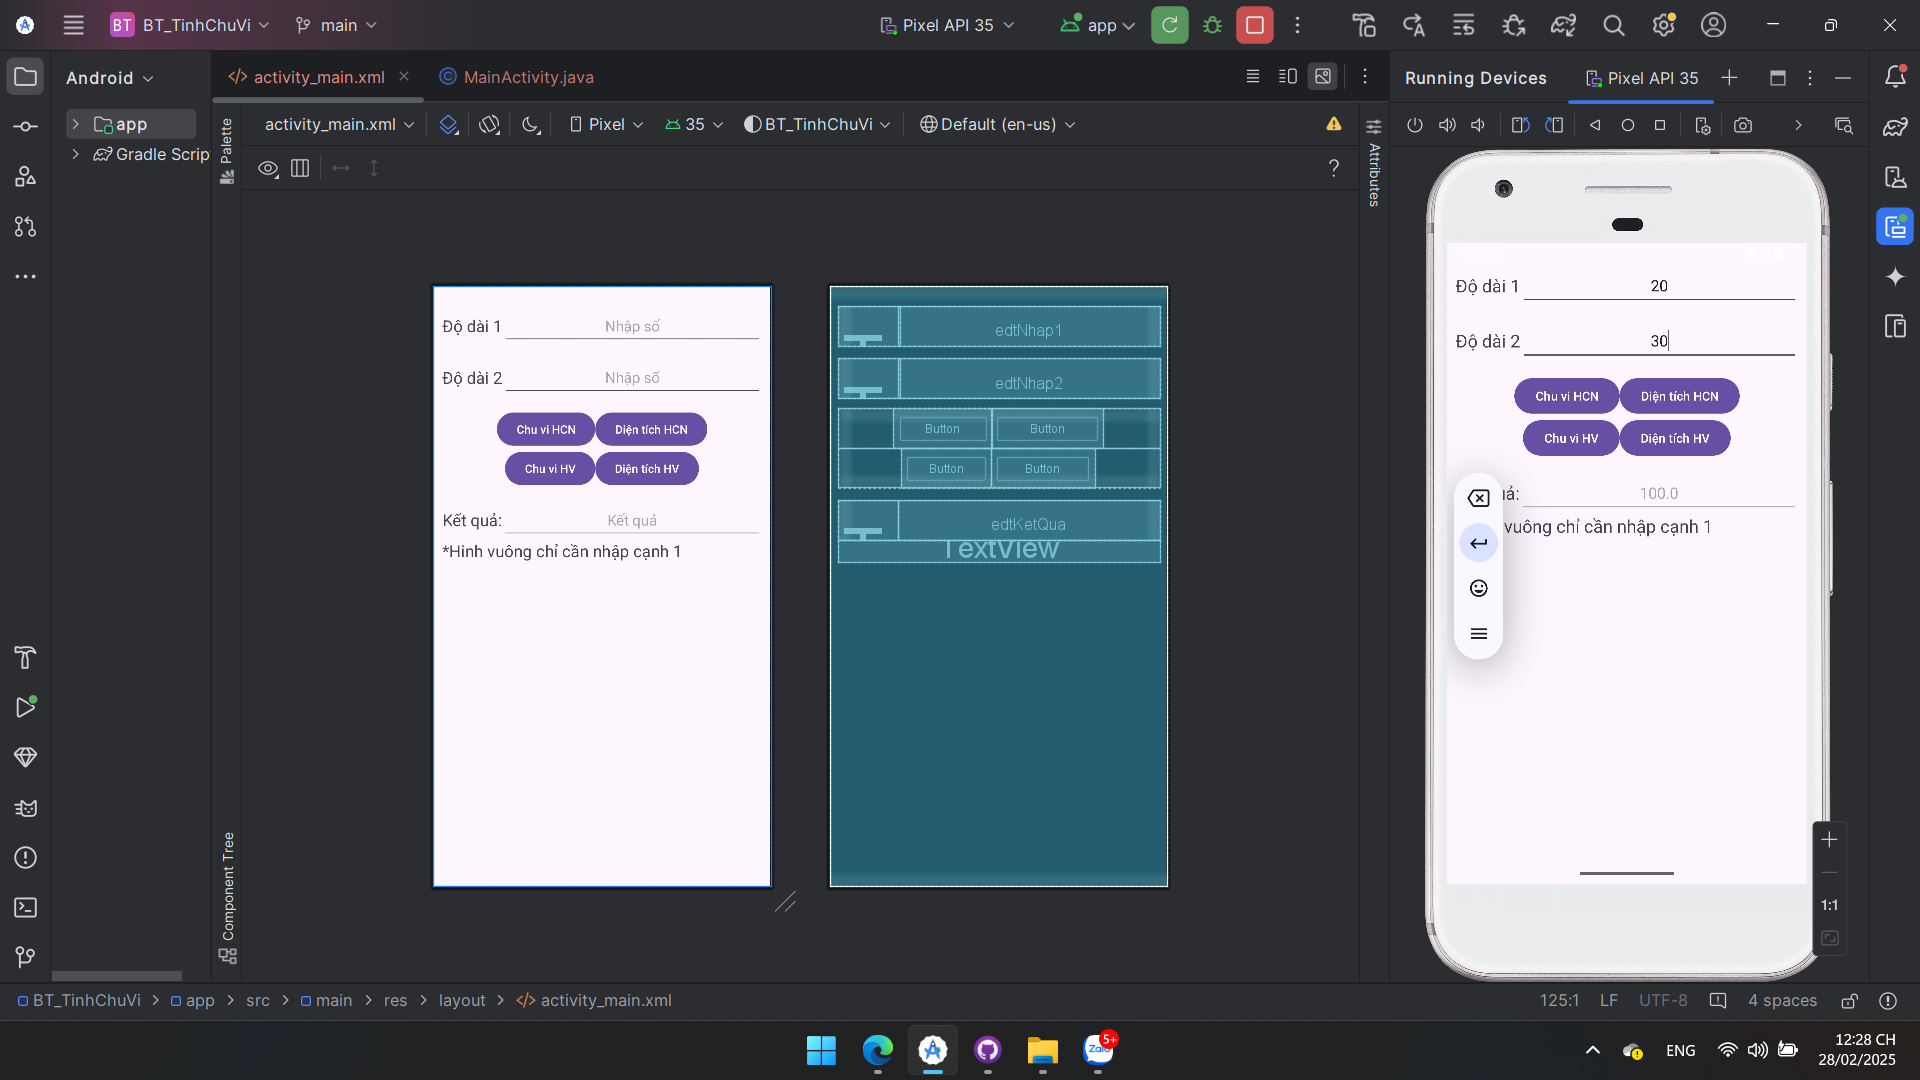
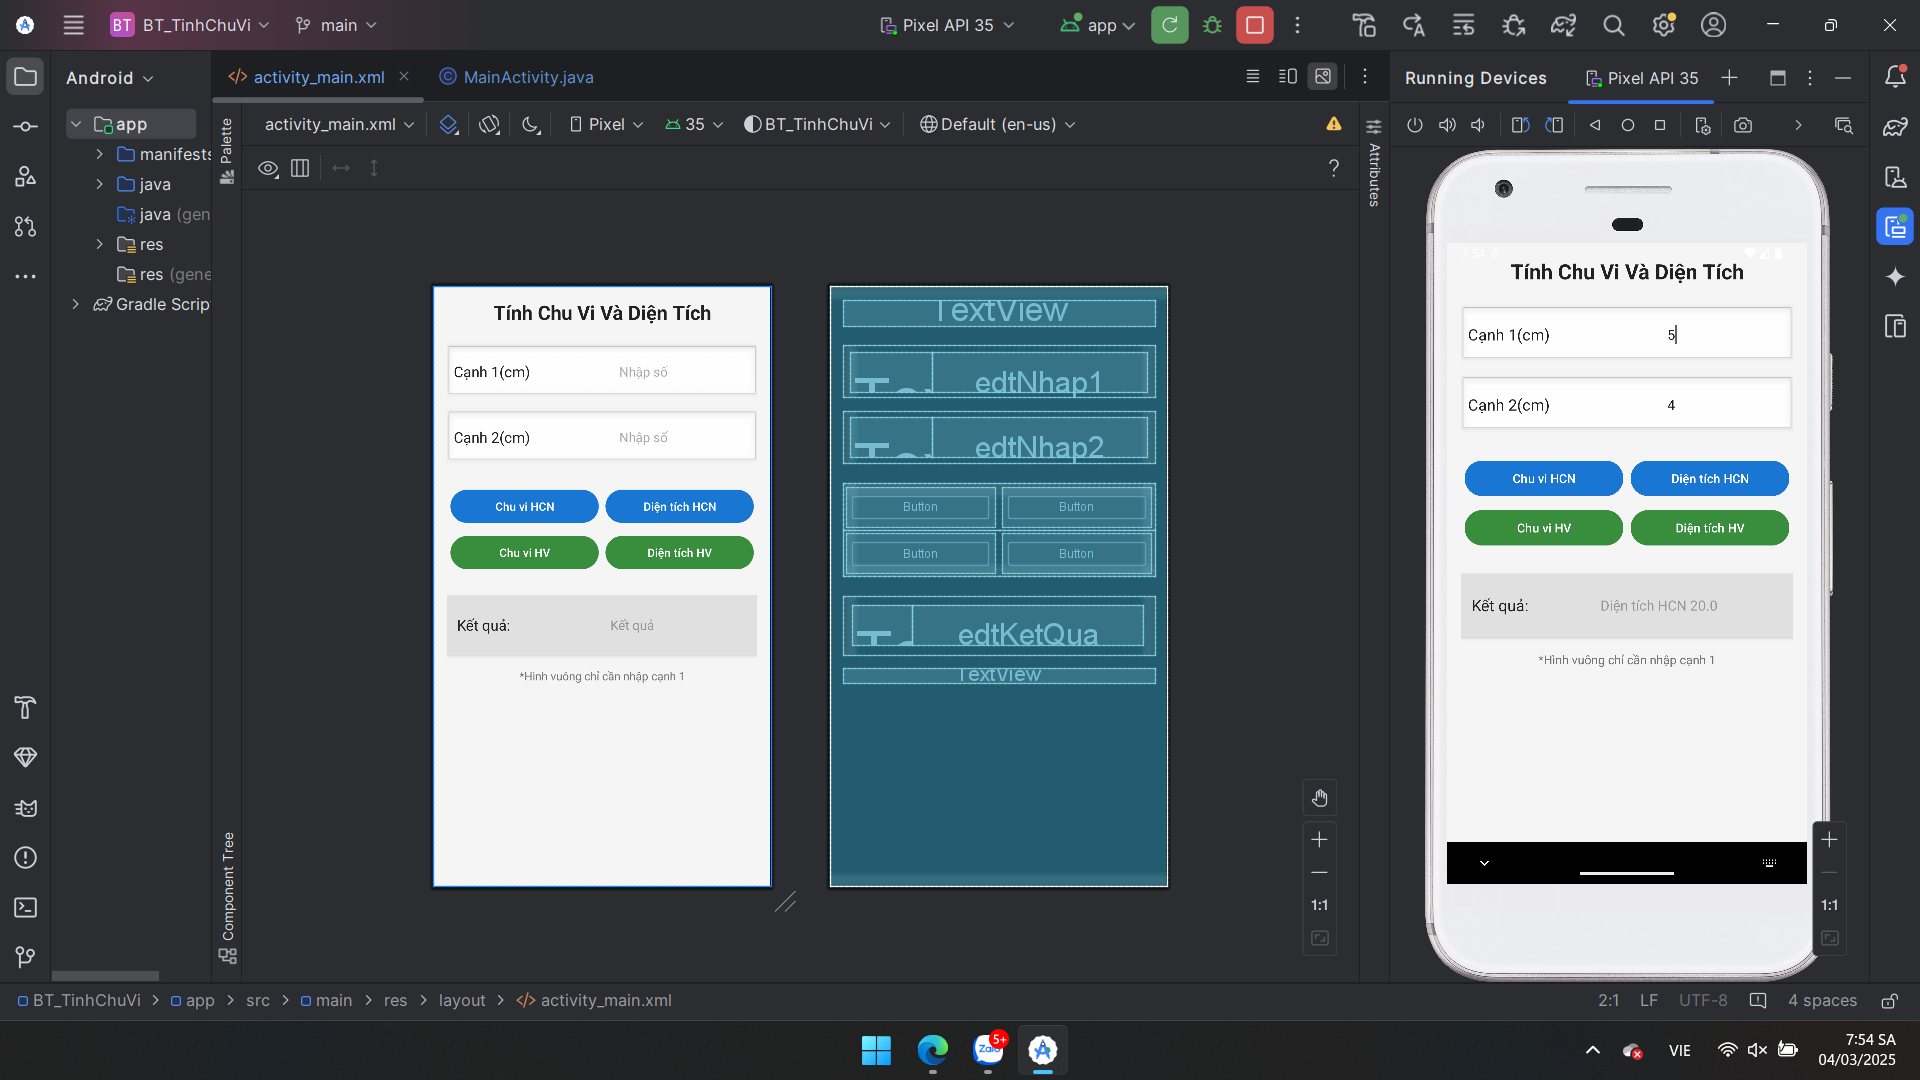
Bài làm thêm
Cập nhật giao diện chuyên nghiệp hơn

diff --git a/BT_TinhChuVi/app/src/main/java/dp/wang/MainActivity.java b/BT_TinhChuVi/app/src/main/java/dp/wang/MainActivity.java
@@ -34,27 +34,27 @@ public class MainActivity extends AppCompatActivity {
         float chieuDai = Float.parseFloat(nhap1.getText().toString());
         float chieuRong = Float.parseFloat(nhap2.getText().toString());
         float chuVi = 2 * (chieuDai + chieuRong);
-        ketQua.setText(String.valueOf(chuVi));
+        ketQua.setText(String.format("Chu vi HCN %s", chuVi));
     }
 
     public void DienTichHCN(View v) {
         float chieuDai = Float.parseFloat(nhap1.getText().toString());
         float chieuRong = Float.parseFloat(nhap2.getText().toString());
         float dienTich = chieuDai * chieuRong;
-        ketQua.setText(String.valueOf(dienTich));
+        ketQua.setText(String.format("Diện tích HCN %s", dienTich));
     }
 
     // Hình vuông
     public void ChuViHV(View v) {
         float canh = Float.parseFloat(nhap1.getText().toString());
         float chuVi = 4 * canh;
-        ketQua.setText(String.valueOf(chuVi));
+        ketQua.setText(String.format("Chu vi HV %s", chuVi));
     }
 
     public void DienTichHV(View v) {
         float canh = Float.parseFloat(nhap1.getText().toString());
         float dienTich = canh * canh;
-        ketQua.setText(String.valueOf(dienTich));
+        ketQua.setText(String.format("Diện tích Hv %s", dienTich));
     }
 
 }
